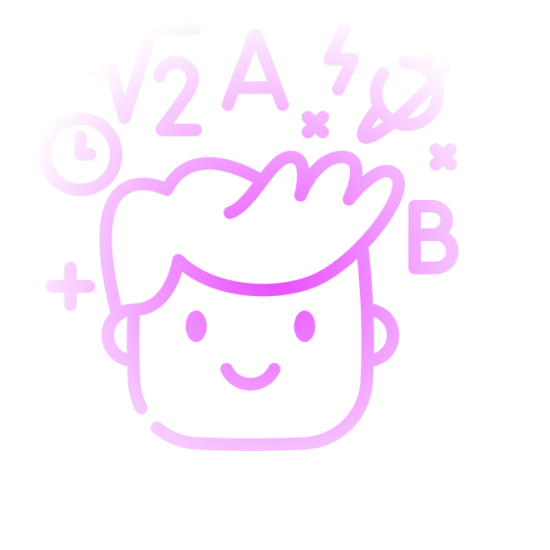
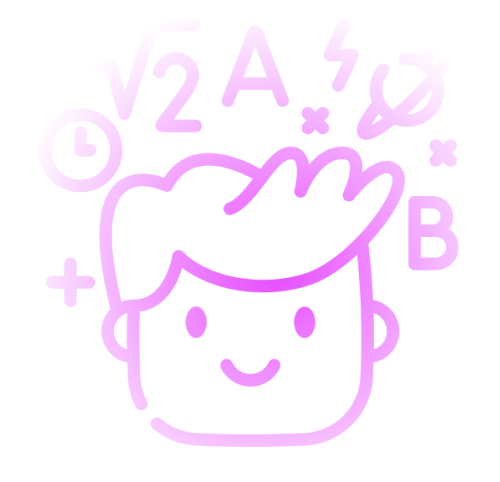
Bags solutions

Changed region(s): [[0.09, 0.0622, 0.93, 0.9336], [0.57, 0.0622, 0.72, 0.1867]]

diff --git a/src/components/sections/Fourth/WayChoose.style.ts b/src/components/sections/Fourth/WayChoose.style.ts
@@ -23,53 +23,37 @@ export const ThemeWayChoose = styled.div`
       rgb(61, 100, 241) 100%
     );
     opacity: 0.6;
-
-    position: relative;
-    top: -50px;
+    margin: 40px 0;
   }
 
   .FirstWay {
     #imgbox {
       width: 500px;
-      position: relative;
-      top: -170px;
-
-      h4 {
-        margin-top: 54px;
-        position: relative;
-        right: -250px;
-      }
+      display: flex;
+      justify-content: center;
+      flex-wrap: wrap;
     }
   }
 
   .SecondWay {
     #imgbox {
-      width: 500px;
-      position: relative;
-      left: -130px;
-
-      h4 {
-        position: relative;
-        top: -50px;
-        right: -150px;
+      width: 550px;
+      display: flex;
+      justify-content: center;
+      flex-wrap: wrap;
+      img {
+        width: 380px;
+        height: 380px;
       }
-      margin-bottom: 90px;
     }
   }
 
   .ThirdWay {
     #imgbox {
       width: 500px;
-      position: relative;
-      right: -300px;
-      top: -50px;
-
-      h4 {
-        margin-top: 54px;
-        position: relative;
-        top: -100px;
-        right: -100px;
-      }
+      display: flex;
+      justify-content: center;
+      flex-wrap: wrap;
     }
   }
 `;

diff --git a/src/components/UI/ChoosingInf/InfToChoose.style.ts b/src/components/UI/ChoosingInf/InfToChoose.style.ts
@@ -32,7 +32,7 @@ export const ThemeInfToChoose = styled.div`
 
   #boxOfWay {
     display: flex;
-    /* justify-content: space-between; */
+    justify-content: space-between;
   }
 
   h4 {
